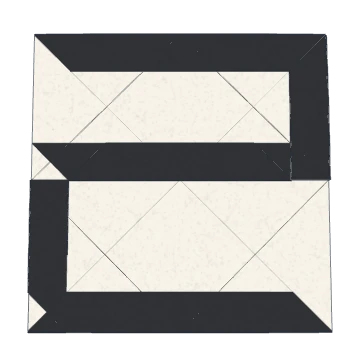
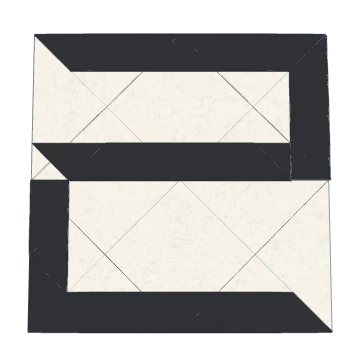
한글 ㅑ 추가, ㄹ 영상 순서대로 다시 만듦, 한글 자모 ㄱㄴㄷ 순 정렬·?band=hangul 주소로 필터

diff --git a/src/models/hangul.js b/src/models/hangul.js
@@ -163,10 +163,12 @@ export const pieup = letter({
   ],
 });
 
-// ㄹ: 띠를 한 번 더 반 접어 가늘게(H/8). 왼쪽 띠를 통째로 잘라 가운데 가로 획으로, 오른쪽 띠의 아래 반을 잘라 뒤집어 왼쪽 아래 세로 획으로
+// ㄹ (영상 순서): 띠를 한 번 더 반 접어 가늘게(H/8) → 왼쪽 띠를 통째로, 오른쪽 띠의 아래 절반을 잘라 낸다 →
+// 위·아래 띠를 안으로 접는다 → 왼쪽 띠를 돌려 가운데 가로 획(y∈[0, H/8])으로 붙이고 오른쪽 띠를 접어 그 끝을 덮는다 →
+// 짧은 조각을 펼쳐 반대쪽으로 다시 접은 뒤 안쪽 왼쪽 아래(x∈[-H/2, -3H/8], y∈[-H/2, 0])에 붙인다
 export const rieul = letter({
   id: 'rieul', char: 'ㄹ', roman: 'rieul', video: 'tzuSzLH3usE',
-  desc: ['가늘게 접은 테두리 띠 두 조각을 가위로 잘라 가운데 획과 왼쪽 아래 획으로 붙이면 한글 ㄹ 이 돼요.', 'Cut two pieces off the thin border strips and glue them on as the middle stroke and the lower left stroke to make the Korean letter ㄹ (rieul).'],
+  desc: ['가늘게 접은 테두리 띠에서 두 조각을 가위로 잘라 가운데 획과 왼쪽 아래 획으로 옮겨 붙이면 한글 ㄹ 이 돼요.', 'Cut two pieces off the thin border strips and glue them on as the middle stroke and the lower left stroke to make the Korean letter ㄹ (rieul).'],
   steps: [
     ...frameBase(), halveBands(),
     cutBand('left', 'bar'),
@@ -180,17 +182,57 @@ export const rieul = letter({
       ],
       tag: 'leg', pull: [H / 4, 0],
     }),
-    stroke('top'),
-    glue('bar', { from: 'left', rot: 90, move: [0, 5 * H / 8] }, '가운데 획: 왼쪽에서 떼어 낸 띠를 돌려 가운데에 가로로 붙여요. 오른쪽 끝은 오른쪽 띠 자리까지 닿게 해요.', 'Middle stroke: turn the strip cut from the left and glue it across the middle so its right end reaches the right strip.'),
-    stroke('right'),
+    stroke('top'), stroke('bottom'),
+    glue('bar', { from: 'left', rot: 90, move: [0, 5 * H / 8] }, '왼쪽에서 떼어 낸 긴 띠를 돌려 흰 네모 가운데에 가로로 붙여요. ㄹ 의 가운데 획이에요.', 'Turn the long strip cut from the left and glue it across the middle of the white square. This is the middle stroke of ㄹ.'),
+    { ...stroke('right'), ko: '오른쪽 띠를 흰 네모의 변을 따라 안쪽으로 접어 가운데 획의 끝을 덮어요.', en: 'Fold the right strip inward along the edge of the white square so it covers the end of the middle stroke.' },
     {
-      ko: '오른쪽에서 잘라 낸 짧은 띠를 뒤집어 왼쪽 아래에 세로로 붙여요.',
-      en: 'Turn over the short strip cut from the right and glue it upright at the lower left.',
-      moves: [flipGlue('leg', [[3 * H / 16, -1], [3 * H / 16, 1]])],
+      ko: '오른쪽에서 잘라 낸 짧은 띠를 펼쳐, 반대쪽으로 다시 접어요.',
+      en: 'Open the short strip cut from the right and fold it again the other way.',
+      // 떼어 놓은 자리 x∈[3H/4, 7H/8], 바깥 변 x=7H/8 이 반 접은 선. 펼친 뒤 같은 선에서 뒤로 접는다
+      sim: true,
+      moves: [foldPiece('leg', foldX(7 * H / 8, -1)), foldPiece('leg', { ...foldX(7 * H / 8, 1), toward: -1 })],
+    },
+    {
+      ko: '짧은 띠를 흰 네모 안쪽 왼쪽 아래에 세로로 붙여요.',
+      en: 'Glue the short strip upright inside the white square at the lower left.',
+      moves: [place('leg', { move: [-5 * H / 4, 0] })],
       torn: true,
       view: [0, 0, 1],
     },
-    stroke('bottom'),
+  ],
+});
+
+// ㅑ: 영상은 말아 접은 띠의 두 칸을 펼쳐 눌러 세우는데, 그 꼭짓점을 영상에서 확정하지 못해 같은 끝 모양을 가위로 만든다.
+// 흰 면 위 → 양옆을 가운데로 두 번 모으고 반 접어 폭 1/8·높이 1 막대 (x∈[-1/8, 0]) → 아래 1/4 을 잘라 막대 높이 3/4 →
+// 잘라 낸 조각을 반으로 잘라 1/8 정사각형 두 개 → 막대 오른쪽에 짧은 획으로 붙인다
+// (막대 높이 기준 위에서 0.21–0.38, 0.54–0.71. 영상 측정 0.19–0.38, 0.54–0.76)
+export const ya = letter({
+  id: 'ya', char: 'ㅑ', roman: 'ya', video: '0Ax-hbENp8Q',
+  desc: ['긴 막대를 접은 뒤 아래 끝을 잘라 두 조각으로 나누고, 막대 옆에 붙이면 한글 ㅑ 가 돼요.', 'Fold a long bar, cut off its bottom end, cut that into two pieces and glue them beside the bar to make the Korean letter ㅑ (ya).'],
+  steps: [
+    { ko: '흰 면이 위로 오게 놓고, 양쪽 끝을 가운데 선에 맞춰 접어요.', en: 'Place the paper white side up and fold both sides to the middle line.', moves: [foldX(H / 2, 1), foldX(-H / 2, -1)] },
+    { ko: '양쪽을 한 번 더 가운데 선에 맞춰 접어요.', en: 'Fold both sides to the middle line once more.', moves: [foldX(H / 4, 1), foldX(-H / 4, -1)] },
+    { ko: '가운데 선에서 반으로 접어 긴 막대를 만들어요.', en: 'Fold it in half along the middle line to make a long bar.', moves: [foldX(0, 1)] },
+    cutPiece({
+      ko: '막대 아래쪽 ¼ 을 가위로 잘라 내요.', en: 'Cut off the bottom quarter of the bar with scissors.',
+      cuts: [{ line: [[-1, -H / 2], [1, -H / 2]], side: [0, -H] }], tag: 'tick', pull: [H / 2, 0],
+    }),
+    cutPiece({
+      ko: '잘라 낸 조각을 반으로 잘라 작은 네모 두 개를 만들어요.', en: 'Cut the piece in half to make two small squares.',
+      cuts: [{ line: [[-1, -3 * H / 4], [1, -3 * H / 4]], side: [0, -H], filter: (c) => c.tags.has(PIECE('tick')) }], tag: 'tick2', pull: [0, -H / 4],
+    }),
+    {
+      ko: '두 네모를 막대 오른쪽에 짧은 획으로 붙여요. 위에서 조금 내려온 곳과 가운데쯤에 하나씩 붙여요.',
+      en: 'Glue the two squares to the right of the bar as short strokes, one a little below the top and one near the middle.',
+      // 조각 1: x∈[1/8, 1/4], y∈[-3/8, -1/4] → x∈[0, 1/8], y∈[7/32, 11/32]
+      // 조각 2: x∈[1/8, 1/4], y∈[-5/8, -1/2] → x∈[0, 1/8], y∈[-1/32, 3/32]
+      moves: [
+        place('tick', { move: [-H / 4, 19 * H / 16] }),
+        place('tick2', { move: [-H / 4, 19 * H / 16] }),
+      ],
+      torn: true,
+      view: [0, 0, 1],
+    },
   ],
 });
 
@@ -268,4 +310,6 @@ export const hieut = letter({
   ],
 });
 
-export const HANGUL = [giyeok, nieun, digeut, rieul, mieum, bieup, siot, ieung, jieut, chieut, kieuk, tieut, pieup, hieut, a, i];
+export const HANGUL = [giyeok, nieun, digeut, rieul, mieum, bieup, siot, ieung, jieut, chieut, kieuk, tieut, pieup, hieut, a, ya, i];
+// 한글 자모 필터에서 보이는 순서 (ㄱㄴㄷ… 사전 순서; 갤러리 전체는 난이도 순이라 따로 둔다)
+HANGUL.forEach((m, i) => { m.groupOrder = i; });

diff --git a/src/main.js b/src/main.js
@@ -105,11 +105,18 @@ const hero = createHero($('heroCanvas'), MODELS, plansOf, (m) => {
 const bandKey = 'origami.band';
 let band = 'all';
 try { band = localStorage.getItem(bandKey) || 'all'; } catch { /* 저장소 사용 불가 */ }
+// 주소로 고르기: ?band=hangul (한글 자모만 보이게 공유할 때). 주소에 있으면 기억한 값보다 먼저
+const urlBand = new URLSearchParams(location.search).get('band');
+if (urlBand) band = urlBand;
 if (!['all', '1', '2', '3', '4', 'hangul'].includes(band)) band = 'all';
 // 난이도 구간이 아닌 주제 묶음(작품의 group): 그 묶음만 보인다
 const inBand = (key, level, group) => key === 'all' || (key === 'hangul' ? group === key : String(level) === key);
 function applyBand() {
-  [...$('cards').children].forEach((li) => { li.hidden = !inBand(band, li.dataset.band, li.dataset.group); });
+  [...$('cards').children].forEach((li) => {
+    li.hidden = !inBand(band, li.dataset.band, li.dataset.group);
+    // 주제 묶음은 그 묶음의 순서(한글 자모: ㄱㄴㄷ…)로, 그 밖에는 난이도 순서 그대로
+    li.style.order = band === 'hangul' && li.dataset.order ? li.dataset.order : '';
+  });
   $('bands').querySelectorAll('button').forEach((b) => b.setAttribute('aria-pressed', String(b.dataset.band === band)));
 }
 function renderBands() {
@@ -152,6 +159,7 @@ function renderGallery() {
     li.dataset.id = m.id;
     li.dataset.band = String(m.level);
     if (m.group) li.dataset.group = m.group;
+    if (m.groupOrder !== undefined) li.dataset.order = String(m.groupOrder);
     li.innerHTML = `<a href="#/m/${m.id}"><div class="pic matgrid"><span class="lv" aria-hidden="true">${T.level(m.level)}</span><img alt="" /></div>
       <div class="meta"><h3></h3><p></p><div class="facts"><span class="steps"></span></div></div></a>`;
     li.querySelector('h3').textContent = m.name;
